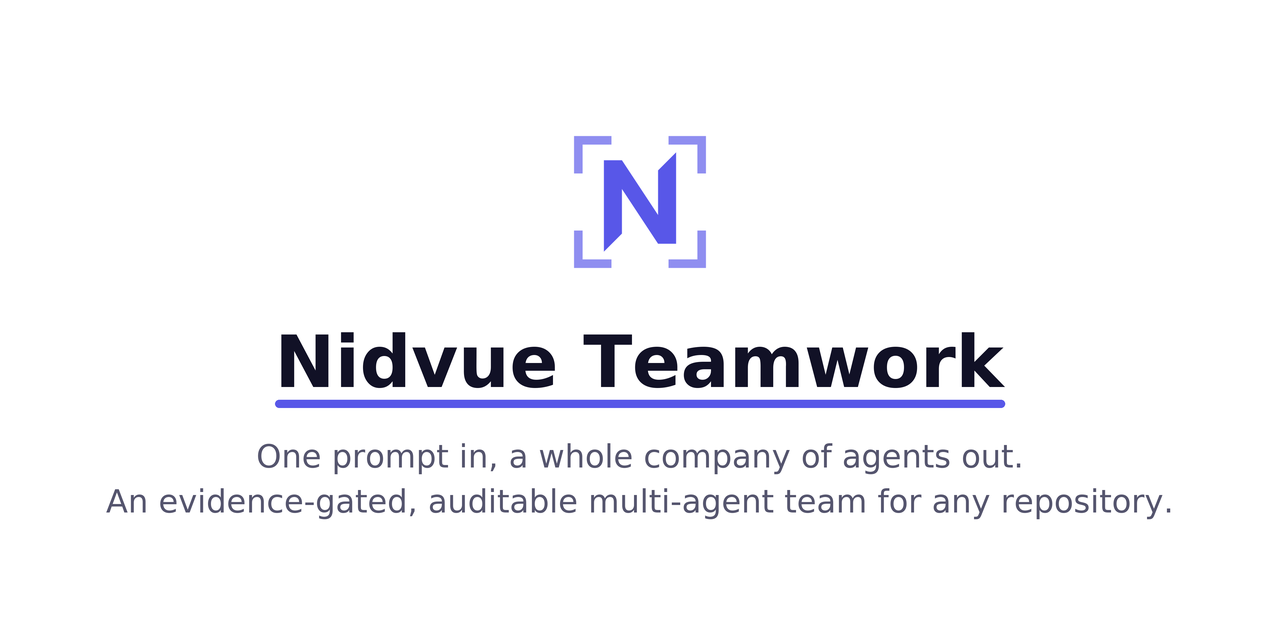
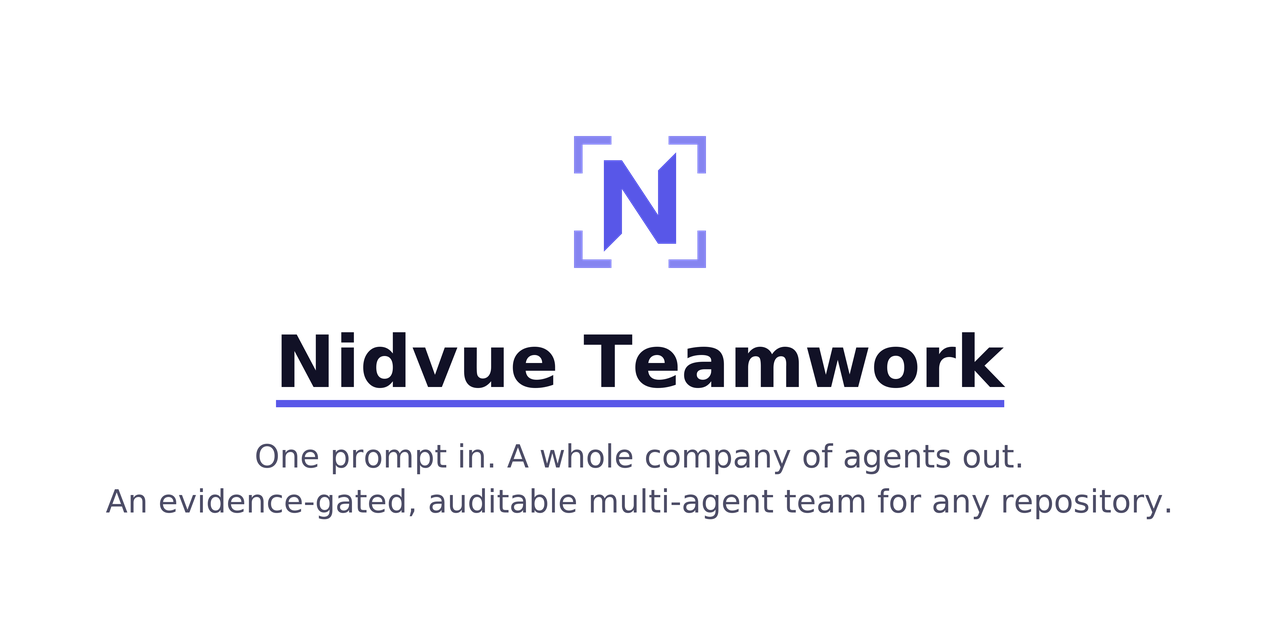
fix(ui/assets): scripts/render_social_preview.py (Pillow + cairosvg generator; inputs do
Task: T-0005
Role: Designer
Producers: Designer
Goal: R-19: make the OG card replayable and align its pitch with the README exactly
Deliverable: scripts/render_social_preview.py (Pillow + cairosvg generator; inputs docs/assets/nidvue-icon.svg and the pitch at README.md:5), assets/social-preview.png rebuilt from it, and docs/Team/Design.md updated with the generator, the exact command, the Windows limitation and the measurements
Why: The card shipped a comma where the README has a full stop and had no committed generator, so nobody could rebuild it; the generator reads the pitch from the README, which makes drift impossible, and rebuilding from the current mark also replaces the stale pre-T-0001 0.92 frame (2.88:1) with the full-opacity #8584F0 (3.20:1)
Status: implemented, measured and self-checked; awaiting independent review
Result: WSL .venv/bin/python scripts/render_social_preview.py @HEAD -> 1280x640 RGB, 73 345 B, sha256 29615f1a57c54a8d9fac59a5b78002f3bf122a585e9365a51604834ced3916c2; two consecutive runs -> byte-identical; chunks IHDR/IDAT/IDAT/IEND, 0 metadata; pitch read from README.md:5 = 'One prompt in. A whole company of agents out.'; vs the old card 96ff20db... 22 660 of 819 200 px (2.77%) differ, every band keeps its box; Windows venv -> ModuleNotFoundError: No module named 'cairosvg'; pytest test_docs_contracts+test_skill_contracts -> 119 passed; teamwork links -> 0 issues; ruff format/check -> clean

Acting role: Designer

diff --git a/scripts/render_social_preview.py b/scripts/render_social_preview.py
@@ -1,0 +1,156 @@
+#!/usr/bin/env python3
+"""Render the GitHub social preview card (assets/social-preview.png).
+
+Inputs, all committed:
+  - docs/assets/nidvue-icon.svg - the Nidvue mark, rasterised with cairosvg
+  - README.md - the canonical pitch, read from its <p><strong>...</strong></p> line
+
+The card is composed at 4x and downsampled so the text is crisp. The mark is
+rendered separately at 600 px and resized to its 168 px placement: it is already
+a raster of a vector, and resampling it with the card would blur its 1 px frame.
+
+Text uses Pillow's BASIC layout, not the Raqm/HarfBuzz default: BASIC is what
+produced the review-approved card, and Raqm kerns the title about 5 px tighter,
+which would move every letter off the approved position.
+
+Output: 1280x640, 8-bit RGB (colour type 2), no alpha and no metadata chunk.
+
+Requires Pillow and cairosvg. The repository's Windows venv has neither; the
+repository's WSL .venv has both. Run it from the repository root:
+
+    .venv/bin/python scripts/render_social_preview.py
+
+Options:
+  --output PATH   write the card elsewhere (default assets/social-preview.png)
+"""
+
+from __future__ import annotations
+
+import argparse
+import html
+import io
+import re
+from pathlib import Path
+
+import cairosvg
+from PIL import Image, ImageDraw, ImageFont
+
+REPO = Path(__file__).resolve().parents[1]
+ICON = REPO / "docs" / "assets" / "nidvue-icon.svg"
+README = REPO / "README.md"
+OUTPUT = REPO / "assets" / "social-preview.png"
+
+WIDTH, HEIGHT = 1280, 640
+SUPERSAMPLE = 4
+
+# The mark's own raster is 600 px (Design.md, round 3); it is pasted at 168 px
+# after the card is downsampled.
+MARK_SOURCE = 600
+MARK_SIZE = 168
+MARK_TOP_LEFT = (556, 118)
+
+NAME = "Nidvue Teamwork"
+NAME_SIZE = 72
+NAME_FILL = (17, 17, 38)  # #111126
+NAME_CENTER = (639.5, 362)
+
+RULE = (276, 400, 1004, 407)  # left, top, right, bottom (inclusive) in final pixels
+RULE_FILL = (88, 87, 232)  # #5857e8
+
+BODY_SIZE = 32
+BODY_FILL = (76, 76, 102)  # #4c4c66
+PITCH_CENTER = (639.5, 456.5)
+DESC = "An evidence-gated, auditable multi-agent team for any repository."
+DESC_CENTER = (639.5, 501.5)
+
+FONT_DIRS = (
+    "/usr/share/fonts/truetype/dejavu",
+    "/usr/share/fonts/dejavu",
+    "/usr/share/fonts/TTF",
+)
+
+
+def font_path(name: str) -> str:
+    for directory in FONT_DIRS:
+        candidate = Path(directory) / name
+        if candidate.is_file():
+            return str(candidate)
+    raise SystemExit(
+        f"missing {name}: install the DejaVu fonts or run this where they exist "
+        "(the repository's WSL .venv has them)"
+    )
+
+
+def read_pitch(readme: Path) -> str:
+    match = re.search(r"<p><strong>([^<]+)</strong></p>", readme.read_text(encoding="utf-8"))
+    if match is None:
+        raise SystemExit(f"no <p><strong>pitch</strong></p> line in {readme}")
+    return html.unescape(match.group(1)).strip()
+
+
+def render_mark() -> Image.Image:
+    png = cairosvg.svg2png(
+        url=str(ICON),
+        output_width=MARK_SOURCE,
+        output_height=MARK_SOURCE,
+    )
+    mark = Image.open(io.BytesIO(png)).convert("RGBA")
+    if mark.size != (MARK_SIZE, MARK_SIZE):
+        mark = mark.resize((MARK_SIZE, MARK_SIZE), Image.Resampling.LANCZOS)
+    return mark
+
+
+def render(pitch: str) -> Image.Image:
+    scale = SUPERSAMPLE
+    canvas = Image.new("RGB", (WIDTH * scale, HEIGHT * scale), (255, 255, 255))
+    draw = ImageDraw.Draw(canvas)
+    layout = ImageFont.Layout.BASIC
+    name_font = ImageFont.truetype(
+        font_path("DejaVuSans-Bold.ttf"), NAME_SIZE * scale, layout_engine=layout
+    )
+    body_font = ImageFont.truetype(
+        font_path("DejaVuSans.ttf"), BODY_SIZE * scale, layout_engine=layout
+    )
+
+    draw.text(
+        (NAME_CENTER[0] * scale, NAME_CENTER[1] * scale),
+        NAME,
+        font=name_font,
+        fill=NAME_FILL,
+        anchor="mm",
+    )
+    draw.rectangle(tuple(value * scale for value in RULE), fill=RULE_FILL)
+    draw.text(
+        (PITCH_CENTER[0] * scale, PITCH_CENTER[1] * scale),
+        pitch,
+        font=body_font,
+        fill=BODY_FILL,
+        anchor="mm",
+    )
+    draw.text(
+        (DESC_CENTER[0] * scale, DESC_CENTER[1] * scale),
+        DESC,
+        font=body_font,
+        fill=BODY_FILL,
+        anchor="mm",
+    )
+
+    card = canvas.resize((WIDTH, HEIGHT), Image.Resampling.LANCZOS)
+    mark = render_mark()
+    card.paste(mark, MARK_TOP_LEFT, mark)
+    return card
+
+
+def main() -> int:
+    parser = argparse.ArgumentParser(description=__doc__)
+    parser.add_argument("--output", type=Path, default=OUTPUT)
+    args = parser.parse_args()
+
+    card = render(read_pitch(README))
+    card.save(args.output, format="PNG", optimize=True)
+    print(f"wrote {args.output} ({card.width}x{card.height}, {card.mode})")
+    return 0
+
+
+if __name__ == "__main__":
+    raise SystemExit(main())

diff --git a/docs/Team/Design.md b/docs/Team/Design.md
@@ -197,10 +197,11 @@ Assertable by a Tester on the merged README.
 
 ## 8. Verification
 
-Two passes are on record: the README/assets deliverable at `e5efc5f`, and the
-graphics sweep of this task. The sweep rows were run in the worktree immediately
-before the commit that carries this file and re-run at that commit, so the tree
-they measured is the tree that landed.
+Three passes are on record: the README/assets deliverable at `e5efc5f`, the
+graphics sweep of T-0001, and the OG-card generator of T-0005 (8.3). The sweep
+rows were run in the worktree immediately before the commit that carries this
+file and re-run at that commit, so the tree they measured is the tree that
+landed.
 
 ### 8.1 README and assets deliverable (`e5efc5f`)
 
@@ -262,6 +263,21 @@ the README or the assets). All three were fixed and are now green in
 - the missing back-links in `Architecture.md` and `Research.md` were added;
 - the guide back-link was added to `Architecture.md`.
 
+### 8.3 Social preview generator (T-0005, 2026-10-31)
+
+Host: WSL, the repository's `.venv` (Python 3.14.4, Pillow 13.0.0, cairosvg
+2.9.1). The Windows `venv` has neither Pillow nor cairosvg.
+
+| Check | Command | Result |
+|---|---|---|
[1 lines of base64/hex data omitted]
+| Determinism | the same command run twice | byte-identical, same sha256 |
+| Container | stdlib PNG chunk parse | IHDR 1280x640 depth 8 colourtype 2; chunks `IHDR IDAT IDAT IEND`; 0 metadata chunks |
+| Pitch input | `README.md:5` (`<p><strong>...</strong></p>`) | `One prompt in. A whole company of agents out.` - period, no comma |
+| Windows run | `venv\Scripts\python.exe scripts\render_social_preview.py` | exit 1, `ModuleNotFoundError: No module named 'cairosvg'`; the generator must run in the WSL `.venv` |
+| Asset contract | `verify_assets.py <worktree>` | social-preview 1280x640 colourtype 2, chunks `IHDR IDAT IDAT IEND`, 0 metadata; every other asset unchanged |
+| Old -> new | `Scratch/t0005/verify_card.py` | 22 660 of 819 200 pixels (2.77%) differ by >8: mark frame `#8f8ef0` -> `#8584f0` (2.88:1 -> 3.20:1), pitch comma -> period, and antialiasing; every content band keeps its box (section 9, IMG-1) |
+
 ## 9. Visual assets (raster and vector)
 
 Imaging is part of this document: the Designer decides what the deliverable
@@ -278,6 +294,7 @@ charter,
 | probe | `python scripts/teamwork.py imaging probe` on this host (Windows, 2026-10-30) -> `provider: -`, `model: -`, `source: none detected`: **no image model is reachable from this lane**. The earlier pass recorded `provider=local`, `model=qwen-image-2.1` on the authoring host; that result is not reproducible here and is not relied on |
 | provider ranking check | the configured LLM provider is `ollama-cloud`; its catalog is text/vision **input** only (checked 2026-10-17), so no cloud text-to-image model is available to the team |
 | model used | none in this sweep. Every change is hand-authored SVG or a `cairosvg` render of it (fallback ladder rungs 4-5: hand-authored vector, diagram-as-code) |
+| generator | `scripts/render_social_preview.py` (Pillow + cairosvg) - rebuilds the raster from the committed mark SVG and the pitch at `README.md:5`; two runs are byte-identical |
 | model licence | the shipped social preview was composed programmatically on the earlier host; no third-party image is redistributed and no real person is depicted |
 | local fallback | `qimg` (text-to-image and instruction-driven image editing) exists on the authoring host only |
 | cloud prompt policy | no private data, no real people, metadata stripped before commit |
@@ -285,13 +302,14 @@ charter,
 
 ### Assets
 
-Inventory, measured 2026-10-30 in this worktree (`git grep -l -F <path>` = who
-references it, `wc -c` = size). "Referenced by" counts the document that records
-the asset, not only the surface that displays it.
+Inventory, measured 2026-10-30 in this worktree and the social preview
+re-measured 2026-10-31 (T-0005; `git grep -l -F <path>` = who references it,
+`wc -c` = size). "Referenced by" counts the document that records the asset, not
+only the surface that displays it.
 
 | id | asset | medium | size | bytes / mode | referenced by | review result |
 |---|---|---|---|---|---|---|
-| IMG-1 | `assets/social-preview.png` | raster | 1280 x 640 | 71 004 B (69 KiB), RGB | `scripts/build_pi_package.py:30` (`PREVIEW`), `.gitattributes:82` (LFS opt-out), Design/Plan/Decisions/Archive, `roles/designer.md` | pass - template layout, real text, measured on white: name 18.55:1, description 8.29:1, accent rule 5.33:1; only IHDR/IDAT/IEND chunks; inside the 40 pt safe area. One deviation recorded below (pitch punctuation) |
+| IMG-1 | `assets/social-preview.png` | raster | 1280 x 640 | 73 345 B (72 KiB), RGB | `scripts/build_pi_package.py:30` (`PREVIEW`), `scripts/render_social_preview.py` (generator), `.gitattributes:82` (LFS opt-out), Design/Plan/Decisions/Archive, `roles/designer.md` | pass - template layout, real text, measured on white: name 18.55:1, description 8.29:1, accent rule 5.33:1; only IHDR/IDAT/IEND chunks; inside the 40 pt safe area. Pitch now matches the README (period); rebuilt from the current mark, so the frame is full-opacity `#8584F0` (3.20:1) instead of the stale 0.92 composite (2.88:1) |
 | IMG-2 | `assets/banner.svg` | svg | 1280 x 360 | declared, 5 027 B | `README.md:2` (hero), Design/Plan/Archive | pass - two defects fixed: the tagline collided with the org chart at the widest font of the stack (25 -> 22 px), and the three CEO connectors sat at 2.78:1 under the glow (found by Reviewer-1 at `4445d4e`; `stroke-opacity` 0.7 -> 1 on that one group -> 4.05:1 worst, measured along each line) |
 | IMG-3 | `assets/logo.svg` | svg | 128 x 128 | declared, 964 B | `tests/unit/test_skill_contracts.py:251` (`PROSE_AND_MEDIA_EXAMPLES`), Design/Plan/Archive | pass - the standalone Teamwork mark; **kept, not dead**: it is the fixture that proves `assets/**` is treated as prose/media, and the mark the banner draws at 132 px. It is not on a product surface by design (README shows the *Nidvue* mark) |
 | IMG-4 | `assets/demo.svg` | svg | 960 x 560 | declared, 4 778 B | `README.md:19`, Design/Plan/Project/Pi-Packaging/Archive, `tests/unit/test_{skill_contracts,privacy_scan}.py` | pass - one stale line fixed (`12 roles staffed` -> `5 roles staffed, 2 lanes running`, matching the `slim` roster tier) |
@@ -308,9 +326,11 @@ the asset, not only the surface that displays it.
   strictly - 1280x640, white ground, the whole composition inside the template's
   40 pt safe border, and the template's centred stack: icon, then the name in bold,
   then a short two-line description
-- composition: the Nidvue mark (rounded, 150 px) above **Nidvue Teamwork** in
-  DejaVu Sans Bold 72 px, then the pitch in DejaVu Sans 32 px - all text drawn with a
-  real font, never generated by an image model
+- composition: the Nidvue mark (168 px on the card, rasterised from the mark SVG
+  at 600 px then resized) above **Nidvue Teamwork** in DejaVu Sans Bold 72 px, an
+  8 px accent rule, then the pitch read from `README.md:5` and the description in
+  DejaVu Sans 32 px - all text drawn with a real font, never generated by an image
+  model
 - acceptance criteria: 1280x640 exactly, nothing outside the 40 pt safe area, no
   model-rendered lettering, legible at thumbnail size, under 1 MiB as a plain
   (non-LFS) file
@@ -319,11 +339,28 @@ the asset, not only the surface that displays it.
 - candidates reviewed: the earlier generated illustration was **rejected** for this
   surface - it did not follow the template
 - selected: the template-conformant card, rebuilt programmatically
-- evidence: `PIL` composition @worktree -> 1280x640, 71 004 B (69 KiB; the 33 KiB
-  figure recorded here earlier was measured before the round-3 supersampling),
-  content bottom 510 of a 600 safe bottom; re-measured 2026-10-30 -> 1280x640,
-  colortype 2 (RGB, no alpha), no EXIF or `tEXt` chunk; reviewed visually before
-  commit and again in this sweep
+- generator: `scripts/render_social_preview.py` (committed by T-0005), with
+  `docs/assets/nidvue-icon.svg` and `README.md:5` as its inputs. Run it in the
+  repository's WSL `.venv` (`.venv/bin/python scripts/render_social_preview.py`);
+  the Windows `venv` stops at `ModuleNotFoundError: No module named 'cairosvg'`,
+  so that host cannot render the card
+- evidence (T-0005): two consecutive runs -> byte-identical 1280x640 RGB,
+  73 345 B, sha256 `29615f1a57c54a8d...`; chunks `IHDR IDAT IDAT IEND`, 0 metadata;
+  the generator reads the pitch `One prompt in. A whole company of agents out.`
+  from README.md:5, so the card's copy is the README's copy. Against the old card
+  (`96ff20db69bc9ae2...`, 71 004 B, comma) 22 660 of 819 200 pixels (2.77%) differ
+  and every content band keeps its box: mark 574..705 x 136..267 (identical), title
+  281..1004 x 332..387 (identical), rule 276..1003 x 400..406 (was 275..1004 x
+  400..407), pitch 256..1020 x 443..473 (was 258..1019; the period replaces the
+  comma), description 106..1169 x 488..518 (identical). The rebuild also carries
+  the mark's current full-opacity frame `#8584F0` (3.20:1 on white) where the stale
+  card held the pre-T-0001 0.92 composite `#8f8ef0` (2.88:1); the frame colour is
+  the only intended non-copy change, the rest of the difference is antialiasing
+- evidence (T-0001): `PIL` composition @worktree -> 1280x640, 71 004 B (69 KiB; the
+  33 KiB figure recorded here earlier was measured before the round-3
+  supersampling), content bottom 510 of a 600 safe bottom; re-measured 2026-10-30
+  -> 1280x640, colortype 2 (RGB, no alpha), no EXIF or `tEXt` chunk; reviewed
+  visually before commit and again in the T-0001 sweep
 
 ### Review log
 
@@ -397,15 +434,18 @@ Pillow. The rows below are the findings that produced a change or a decision.
 | IMG-7 favicon.ico | the directory used 12-byte entries, so the image offsets were 12 short and `wPlanes` / `wBitCount` read as garbage; `PIL.Image.open` raised `OSError: Truncated File Read` | container rebuilt (6 + 3 x 16 B) over the same three PNG frames; `PIL` now reports frames 16/32/48 |
 | IMG-5, IMG-6 (both NIDVUE SVGs) | `viewBox` only, no `width`/`height`, so a bare `<img>` gives the mark a 300x150 default box before CSS runs; and the `#8584F0` frame carries `opacity="0.92"`, which composites to **2.88:1** on white - under the 3:1 bar this document asserts for a meaningful graphic | `width="256" height="256"` declared; `opacity` removed -> 3.20:1 on white, 5.91:1 on `#0d1117`; the two files stay identical apart from their `<desc>` |
 | IMG-8 touch icon | shipped RGBA with `alpha` 0..255, so iOS composites the transparent ground on black: the indigo N drops to 3.56:1 and the mark loses its white ground | re-rendered from `nidvue-favicon.svg` at 180x180 on white, saved colourtype 2 (RGB), metadata-free, 1 952 B |
-| IMG-1 social preview | pitch reads "One prompt in**,** a whole company of agents out." while the README, the banner and the `<h1>` subtitle read "One prompt in**.** A whole company of agents out." | no change - see the deviation note below; the card is otherwise identical in wording and mark |
+| IMG-1 social preview | pitch read "One prompt in**,** a whole company of agents out." while the README, the banner and the `<h1>` subtitle read "One prompt in**.** A whole company of agents out."; no generator was committed, so the card could not be replayed | superseded by T-0005 (2026-10-31): the committed generator rebuilds the card, the pitch is now the README's (period), and the frame carries the current full-opacity mark (3.20:1) |
 | README mermaid flowchart | the flow showed lanes -> self-check -> review -> merge -> loop and sent every fail back to `LANES`, omitting the two steps the protocol is built on: a recorded result at the same revision is **credited** (`--credit`) rather than re-run, and a failed review is re-reviewed as a **delta** by the reviewer that raised the finding | block edited: `REC[(Recorded runs at that revision)]`, `REC -.->|verify once - cite with --credit| RV`, `RV -- fail + findings --> FX[Owner fixes]`, `FX --> SC`; lane group labelled "one per staffed role" |
 | IMG-3 logo | measured, no defect: `role=img`, title + desc, no text, no external reference, geometry inside the 128 viewBox | none - the fixture usage is the reason it ships |
 
-Deviation accepted - the social preview's comma: the OG card is the one asset with
-no committed generator (`scripts/` builds no image), so a rebuild would change the
-whole card for one character and could not be shown to have changed nothing else.
-The words are identical; the README remains the canonical wording and the CEO can
-ask for a rebuild if the verbatim string matters more than the risk.
+Resolved (T-0005) - the card is now replayable and its pitch matches the README.
+The comma deviation was accepted in T-0001 only because no generator was
+committed; T-0005 commits `scripts/render_social_preview.py` and its inputs,
+rebuilds the card from the current mark and the README pitch, and removes the
+hand-edit risk. A stranger reproduces the shipped bytes with
+`.venv/bin/python scripts/render_social_preview.py` in the repository's WSL
+`.venv` (two runs -> the same sha256); the Windows `venv` has no cairosvg and
+reports `ModuleNotFoundError: No module named 'cairosvg'`.
 
 Repair recipe for IMG-7 (the three frames are the existing payload bytes):
 
@@ -454,7 +494,7 @@ Result: 1 952 B, 180x180, colourtype 2 (RGB), chunks `IHDR IDAT IEND`.
 |---|---|---|---|---|
 | F-1 | `.gitattributes:86` | `docs/assets/* -filter -diff -merge -text` marks the NIDVUE **SVGs** as binary too, so `git diff` prints "Binary files differ" for a hand-authored text asset; every change to IMG-5/IMG-6 in this sweep is invisible in the diff a Reviewer reads | Architect / Release Engineer | split the rule: `docs/assets/*.svg -filter -merge` (keep text/diff) and `docs/assets/*.png -filter -diff -merge -text`; `-filter` alone is enough to stay out of LFS |
 | F-2 | `README.md:2,19` | the hero `<img>` tags declare no intrinsic height (`width="100%"` and `width="820"`), so the two largest assets shift the page while loading; `README.md:3` does it right (`width="88" height="88"`) | CEO (README prose) | add `height="360"` / `height="478"` (the 2x-safe intrinsic ratio) next to the widths |
-| F-3 | `assets/social-preview.png` | the pitch on the OG card uses a comma where the README uses a full stop (deviation note above) | CEO | rebuild the card only with a committed generator, so the change can be replayed |
+| F-3 | `assets/social-preview.png` | the pitch on the OG card used a comma where the README uses a full stop, and no generator was committed | closed by T-0005 (Designer): `scripts/render_social_preview.py` rebuilds the card from the current mark and the README pitch; the pitch is now the README's |
 
 ### Notes
 
